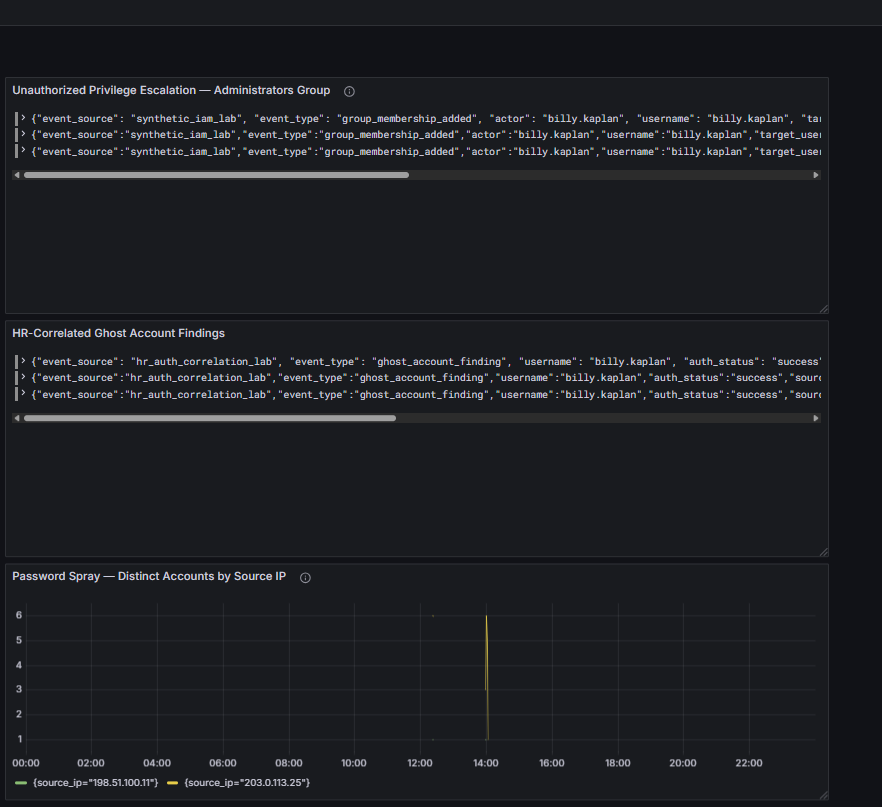
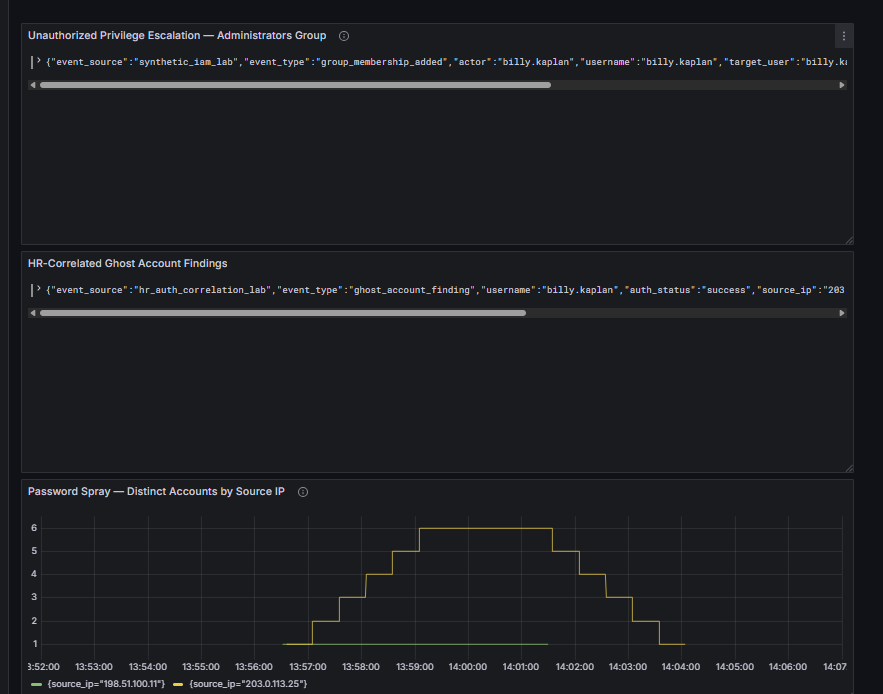
Polish README structure and improve detection dashboard evidence

diff --git a/README.md b/README.md
@@ -246,6 +246,7 @@ The correlation logic:
 
 **HR Correlation Evidence:**
 
+- [HR Termination Source Data](evidence/screenshots/01-hr-termination-source.png)
 - [Python HR Correlation Results](evidence/screenshots/02-ghost-correlation-results.png)
 - [Correlation Dry-Run Evidence](evidence/screenshots/03-correlation-dry-run.png)
 - [Verified Ghost-Account Finding in Grafana](evidence/screenshots/04-ghost-finding-grafana.png)
@@ -472,11 +473,11 @@ py scripts/send_admin_alert_test.py --dry-run
 
 The `--send` option requires an explicitly configured instructor-authorized Loki push endpoint and submits synthetic events. The controlled tests were used to verify Grafana alert firing/recovery. These scripts do **not** perform authentication or change account permissions.
 
-## 11. Future Improvements
+## 11. False-Positive Analysis - Synthetic Shared-IP Testing
 
 **Production-tuning considerations (not implemented or measured in this lab):** A source IP can represent many legitimate users behind a corporate VPN, NAT gateway, proxy, or load balancer. Five distinct login failures over five minutes is a useful lab threshold, **not a validated production threshold**. In production, I would baseline normal per-IP and per-user failure patterns, tune by source category and expected login volume, correlate device/user/session context, and investigate exceptions before suppressing alerts. Similar care is needed to validate real HR termination feeds and change approvals.
 
-### False-Positive Analysis - Synthetic Shared-IP Testing
+
 
 **Objective:** Evaluate how legitimate authentication failures could trigger the password-spray detection rule.
 
@@ -510,6 +511,8 @@ The `--send` option requires an explicitly configured instructor-authorized Loki
 
 **Testing Scope:** This was a local synthetic rule-model test. It did not query Loki, change the existing Grafana alert rules, implement suppression logic, or measure production false-positive rates.
 
+## 12. Future Improvements
+
 Further improvements include:
 
 - Correlating authoritative HR lifecycle events with live identity-provider authentication data.
@@ -519,7 +522,7 @@ Further improvements include:
 - Introducing alert severity classifications and incident response playbooks.
 - Expanding validation coverage to include duplicate events, benign shared-IP login bursts, service-account failures, ingestion gaps, and realistic false-positive tests.
 
-## 12. Security and Testing Scope
+## 13. Security and Testing Scope
 
 This project used controlled synthetic security events and documentation-only IP addresses. The initial full batch comprised 10 generated source events plus 1 derived ghost-account finding; later focused submissions tested individual alerts.
 
@@ -529,7 +532,7 @@ No actual unauthorized login, account compromise, privilege escalation, or real 
 
 Credentials and private infrastructure details are not required to reproduce the code. Alert state testing occurred in a controlled Grafana/Loki lab; external notification delivery was not tested.
 
-## 13. Project Outcome
+## 14. Project Outcome
 
 **Built and validated a controlled identity-threat detection workflow using Python, separate HR reference data, Grafana Loki, LogQL, and Grafana.**
 
